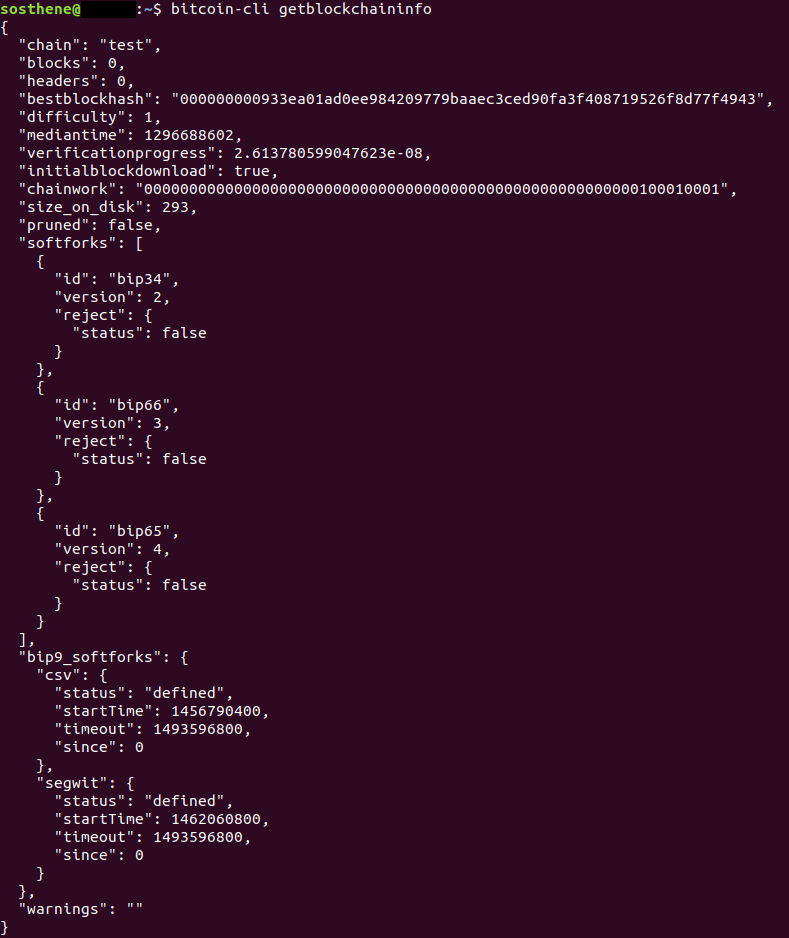
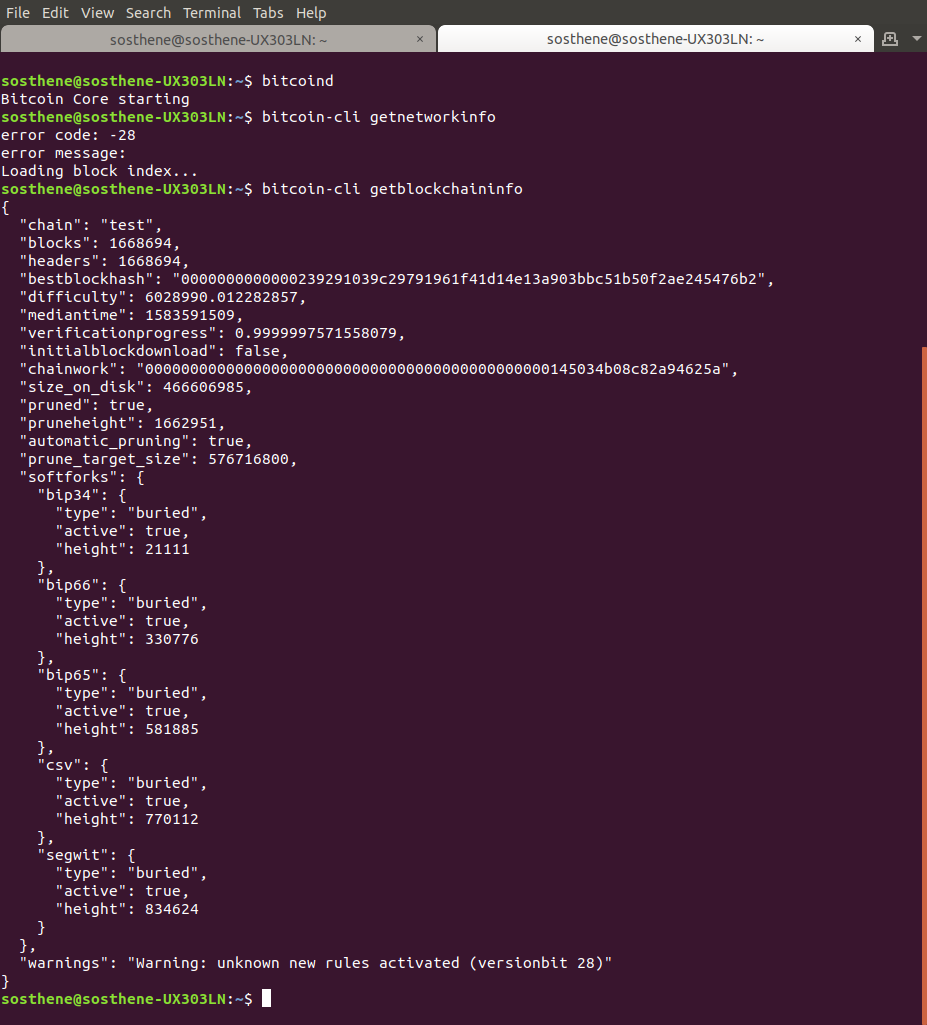
update bitcoin version and some pics

Changed region(s): [[0.0, 0.0, 1.0, 0.9893], [0.9734, 0.3401, 1.0, 1.0]]

diff --git a/thunderbadger_30_bitcoin.md b/thunderbadger_30_bitcoin.md
@@ -12,7 +12,10 @@ Bitcoin dispose d'un réseau de test, judicieusement appelé "testnet". Avant de
 Le testnet fonctionne presque complètement de la même façon que le mainnet, et un de ses avantages est que sa blockchain est beaucoup plus légère que celle du mainnet (une quinzaine de Go), et peut donc être synchronisée en quelques heures, même sur un ordinateur qui mettrait littéralement des semaines à synchroniser le mainnet.
 
 ### Installation
-Nous allons tout d'abord télécharger le dernier [fichier binaire](https://fr.wikipedia.org/wiki/Fichier_binaire) de Bitcoin Core (18.0 en juillet 2019), et comparer l'empreinte du fichier téléchargé avec le [checksum signé](https://bitcoin.org/bin/bitcoin-core-0.18.0/SHA256SUMS.asc) (souvenez-vous, nous l'avons fait également lorsque nous avons téléchargé Bitcoin Core pour Windows à [l'étape 1](thunderbadger_10_preparations.md)).
+Nous allons tout d'abord télécharger le dernier [fichier
+binaire](https://fr.wikipedia.org/wiki/Fichier_binaire) de Bitcoin Core
+(0.19.0.1 en mars 2020), et comparer l'empreinte du fichier téléchargé avec le
+[checksum signé](https://bitcoin.org/bin/bitcoin-core-0.19.0.1/SHA256SUMS.asc) (souvenez-vous, nous l'avons fait également lorsque nous avons téléchargé Bitcoin Core pour Windows à [l'étape 1](thunderbadger_10_preparations.md)).
 
 * Se connecter en tant qu'utilisateur "admin" sur le Thunder Badger :  
 `$ ssh admin@[IP]`
@@ -23,17 +26,19 @@ Nous allons tout d'abord télécharger le dernier [fichier binaire](https://fr.w
 
 **Note** : le nom de l'utilisateur avec lequel vous êtes connecté apparaît toujours dans le terminal sous la forme `user@host`. Si vous ne savez plus dans quel dossier vous vous trouvez, regardez ce qu'il y a avant le symbole `$`. Si besoin, la commande `$ pwd` vous donnera votre emplacement.
 
-* Télécharger les différents fichiers dont nous avons besoin grâce à la commande `wget`. **Attention, le lien ci-dessous est valable pour la version actuelle (18.0)**, pensez à vous rendre sur [bitcoincore.org/en/download/](https://bitcoincore.org/en/download/) pour vérifier quelle est la dernière version.  
+* Télécharger les différents fichiers dont nous avons besoin grâce à la
+* commande `wget`. **Attention, le lien ci-dessous est valable pour la version
+* actuelle (0.19.0.1)**, pensez à vous rendre sur [bitcoincore.org/en/download/](https://bitcoincore.org/en/download/) pour vérifier quelle est la dernière version.  
 ```
-$ wget https://bitcoincore.org/bin/bitcoin-core-0.18.0/bitcoin-0.18.0-x86_64-linux-gnu.tar.gz
-$ wget https://bitcoincore.org/bin/bitcoin-core-0.18.0/SHA256SUMS.asc
+$ wget https://bitcoincore.org/bin/bitcoin-core-0.19.0.1/bitcoin-0.19.0.1-x86_64-linux-gnu.tar.gz
+$ wget https://bitcoincore.org/bin/bitcoin-core-0.19.0.1/SHA256SUMS.asc
 $ wget https://bitcoincore.org/keys/laanwj-releases.asc
 ```
 
 * Vérifier que le checksum de référence correspond à celui du fichier téléchargé :    
 ```
 $ sha256sum --check SHA256SUMS.asc --ignore-missing 
-> bitcoin-0.18.0-x86_64-linux-gnu.tar.gz: Réussi
+> bitcoin-0.19.0.1-x86_64-linux-gnu.tar.gz: Réussi
 ```
 
 :warning: Si jamais vous ne voyez pas le même message suite à cette dernière commande, **quelque chose ne va pas**, n'allez pas plus loin tant que vous n'avez pas compris ce qu'il se passe.
@@ -56,13 +61,13 @@ $ gpg --verify SHA256SUMS.asc
 
 * Extraire et installer le fichier binaire de l'archive que vous avez téléchargée (commande `tar`) :  
   ```
-  $ tar -xvf bitcoin-0.18.0-x86_64-linux-gnu.tar.gz
-  $ sudo install -m 0755 -o root -g root -t /usr/local/bin bitcoin-0.18.0/bin/*
+  $ tar -xvf bitcoin-0.19.0.1-x86_64-linux-gnu.tar.gz
+  $ sudo install -m 0755 -o root -g root -t /usr/local/bin bitcoin-0.19.0.1/bin/*
   ```
 * Vérifier qu'il est bien installé avec la bonne version :  
   ```
   $ bitcoind --version
-  > Bitcoin Core Daemon version v0.18.0
+  > Bitcoin Core Daemon version v0.19.0.1
   ```
 * Ouvrir une session avec l'utilisateur `bitcoin`:  
   ```
@@ -114,8 +119,10 @@ Comme nous avons ajouté la ligne `testnet=1` dans le fichier de configuration, 
 `$ bitcoind`
 
 Attendez quelques instants, et essayez les commandes suivantes :
-`$ bitcoin-cli getblockchaininfo`
-`$ bitcoin-cli getnetworkinfo`
+```
+$ bitcoin-cli getblockchaininfo
+$ bitcoin-cli getnetworkinfo
+```
 
 ![message_erreur](images/thunderbadger_30_bitcoin-cli1.png)  
 _Si vous voyez ce message, cela signifie que `bitcoind` n'a pas encore démarré, réessayez dans une ou deux minutes._

diff --git a/thunderbadger_50_mainnet.md b/thunderbadger_50_mainnet.md
@@ -18,6 +18,17 @@ Vous pouvez suivre les progrès de la synchronisation directement sur ce dernier
 
 Dès que la synchronisation est terminée, vous pouvez éteindre Bitcoin Core. Nous allons ensuite copier l'intégralité des données vers le Thunder Badger, ce qui devrait prendre 6 heures environ.
 
+### Arrêter Bitcoin Core sur les deux machines
+
+Pour pouvois copier les données de la blockchain, il est nécessaire
+d'interrompre Bitcoin Core sur les deux machines. Sur votre machine principale,
+si vous avez utiliser l'interface graphique cliquer sur la croix pour fermer la
+fenêtre permet de quitter Bitcoin Core (une nouvelle fenêtre vous avertissant
+de ne pas éteindre l'ordinateur devrait apparaître quelques seconde à l'écran.
+
+Sur le Thunder Badger, vous pouvez arrêter Bitcoin Core avec la commande `$
+bitcoin-cli stop`.
+
 ### Activer temporairement l'authentification par mot de passe
 
 Vous vous souvenez que nous avions configuré SSH pour ne plus avoir à saisir notre mot de passe lors de la connexion. Et bien nous allons temporairement réactiver le mot de passe pour pouvoir effectuer la copie de données.
@@ -60,7 +71,11 @@ _To Do : chercher une meilleure alternative, par exemple une qui pourrait utilis
 
 ## Renvoyez vos bitcoins testnet
 
-Il est de coûtume de renvoyer les bitcoins du testnet dont nous n'avons plus usage afin que d'autres utilisateurs puissent les utiliser. Si vous avez terminé avec le testnet, vous pouvez donc fermer tous vos canaux de paiement et renvoyer les fonds disponibles dans votre portefeuille sur l'adresse indiquée par [le faucet]([Bitcoin Testnet Faucet](https://testnet.manu.backend.hamburg/faucet).  
+Il est de bon ton de renvoyer les bitcoins du testnet dont nous n'avons plus
+usage afin que d'autres utilisateurs puissent les utiliser. Si vous avez
+terminé avec le testnet, vous pouvez donc fermer tous vos canaux de paiement et
+renvoyer les fonds disponibles dans votre portefeuille sur l'adresse indiquée
+par le faucet que vous avez utilisé.  
 
 * `$ su bitcoin` (tapez le mot de passe de l'utilisateur "bitcoin")
 * `$ lncli closeallchannels`
@@ -150,14 +165,6 @@ Félicitations, le Thunder Badger est désormais opérationnel sur le mainnet ! 
 ### LND en action
 
 Si vous avez activé "Autopilot" dans le fichier `lnd.conf`, LND commencera à créer des canaux de paiements aussitôt que votre transaction aura été minée et confirmée. Sinon vous pouvez désactiver l'autopilote et créer les canaux vous-mêmes, les commandes sont les mêmes que celles que nous avons vues pour le testnet. 
-
-Pour étrenner votre nœud Lightning tout neuf, vous pouvez envoyer quelques sats à :  
-* [Stadicus](https://mainnet.yalls.org/articles/97d67df1-d721-417d-a6c0-11d793739be9:0965AC5E-56CD-4870-9041-E69616660E6F/70858a49-d91c-40fb-ae34-bddc2e938704) l'auteur des deux guides pionniers [Raspibolt](https://github.com/Stadicus/guides/tree/master/raspibolt) et [Thundroid](https://github.com/Stadicus/guides/tree/master/thundroid),
-* [Moi-même](https://www.sosthene.net/tip/), qui ai adapté ces guides en français pour le Thunder Badger.
-* L'une des personnes qui a contribué à ce guide :
-	* ...
-	* ...
-* ...quelqu'un que vous aimez bien !
 
 ### Explorer le réseau Lightning sur le mainnet
 
